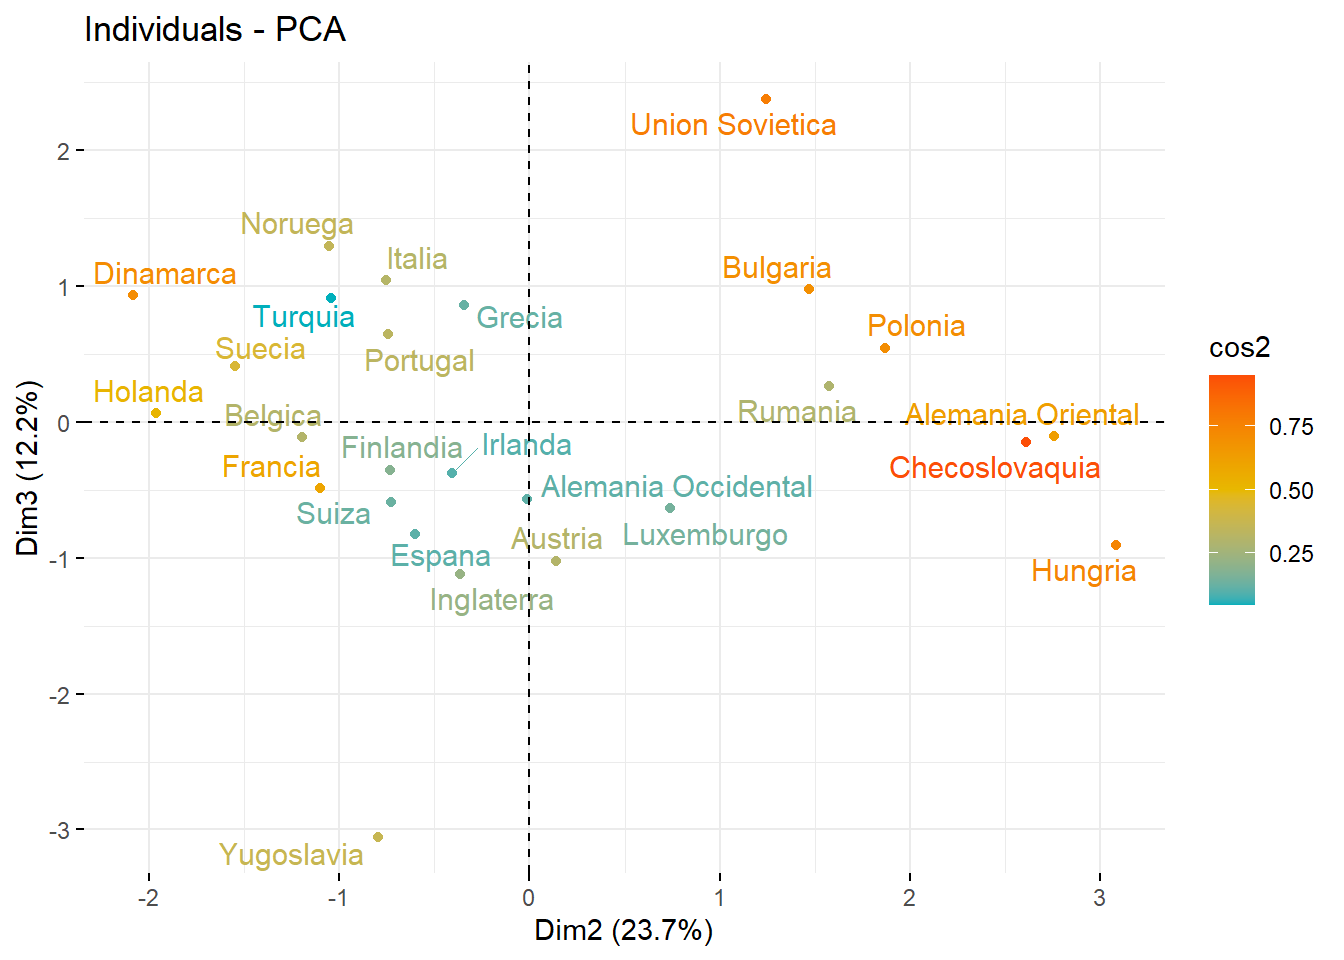
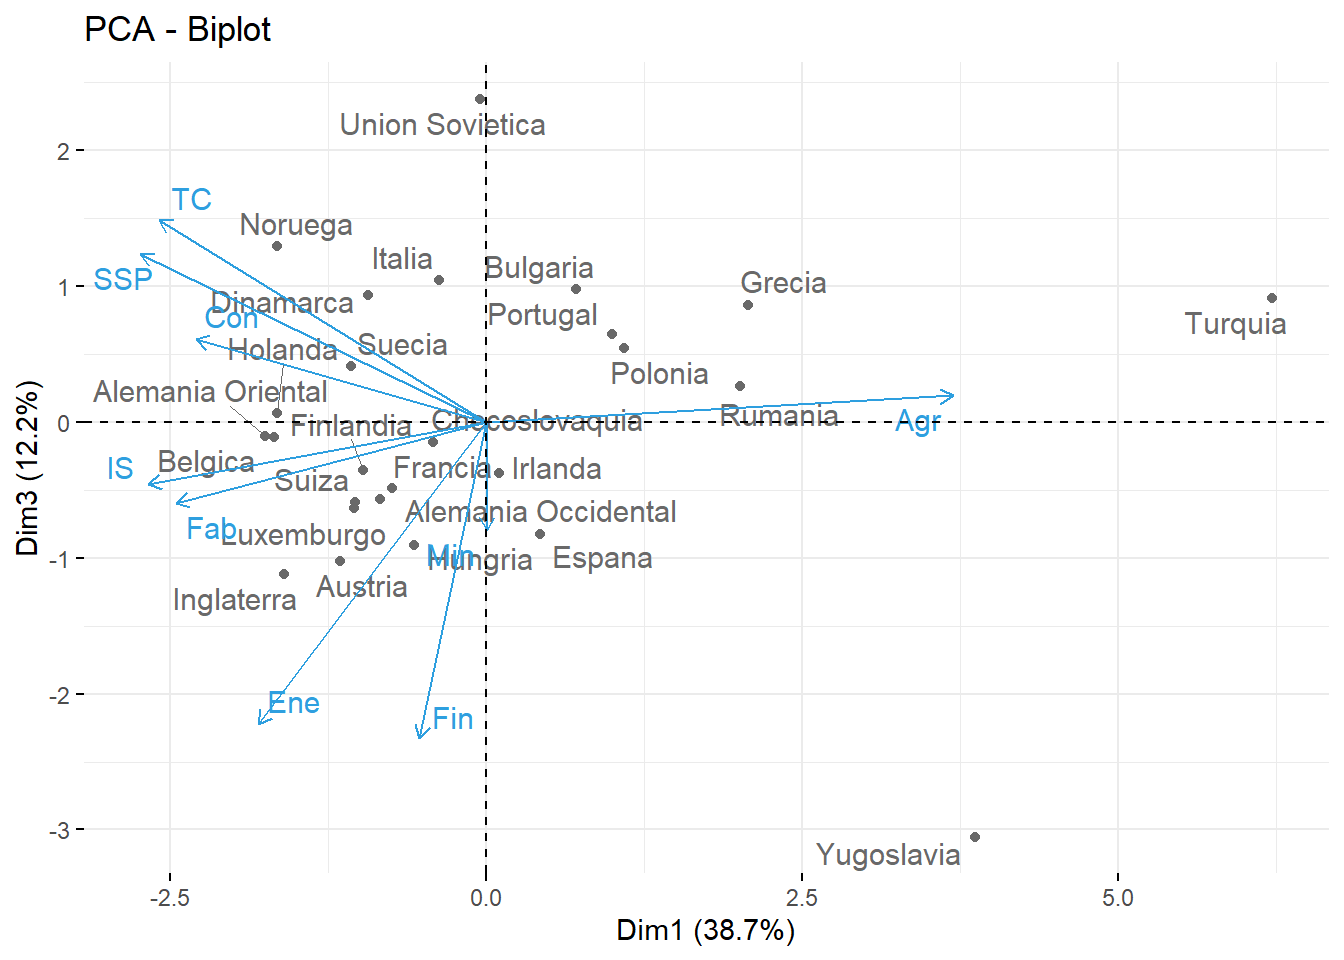
pingüino mayor

diff --git a/entrega5.html b/entrega5.html
@@ -156,6 +156,30 @@ Dim.9 0.0000456251     5.069456e-04                   100.00000</code></pre>
 </div>
 <p>Observamos que las tres primeras componentes principales explican aproximadamente el 74.6% de la variación total. Pese a que, si incorporásemos una componente más podríamos alcanzar un nivel del 85%, vemos conveniente reducir el número de variable a 3 a fin de obtener quizás representaciones que incluyan menos información pero quizás más significativa. Por ello trabajaremos con esas tres componentes para el análisis que sigue a continuación.</p>
 <p>Procedemos ahora a realizar los cruces de las distintas componentes principales.</p>
+<div class="cell">
+<div class="cell-output cell-output-stdout">
+<pre><code>             PC1         PC2         PC3         PC4        PC5        PC6
+Agr  0.523790989  0.05359389  0.04867439 -0.02879285  0.2127026  0.1533066
+Min  0.001323458  0.61780714 -0.20110021 -0.06408495 -0.1637431 -0.1005897
+Fab -0.347495131  0.35505360 -0.15046308  0.34608821 -0.3849576 -0.2881523
+Ene -0.255716182  0.26109606 -0.56108325 -0.39330897  0.2951715  0.3572641
+Con -0.325179319  0.05128845  0.15332114  0.66832395  0.4715934  0.1303542
+IS  -0.378919663 -0.35017206 -0.11509551  0.05015651 -0.2835681  0.6148287
+Fin -0.074373583 -0.45369785 -0.58736130  0.05156652  0.2795682 -0.5255581
+SSP -0.387408806 -0.22152120  0.31190350 -0.41223019 -0.2203514 -0.2629097
+TC  -0.366822713  0.20259185  0.37510601 -0.31437188  0.5129356 -0.1239760
+            PC7          PC8        PC9
+Agr  0.02132116  0.007922069 0.80641788
+Min -0.72571894  0.088362816 0.04856307
+Fab  0.47936298  0.125818308 0.36595728
+Ene  0.25564699 -0.341228167 0.01938500
+Con -0.22069499 -0.355733906 0.08257219
+IS  -0.22943536  0.387536806 0.23829861
+Fin -0.18745525  0.174329338 0.14517064
+SSP -0.19130212 -0.506154178 0.35094226
+TC   0.06819331  0.544562381 0.07205520</code></pre>
+</div>
+</div>
 <section id="cruce-d1-vs-d2" class="level3">
 <h3 class="anchored" data-anchor-id="cruce-d1-vs-d2">Cruce D1 vs D2:</h3>
 <p>Tenemos dos tipos de gráficas que podemos hacer:</p>
@@ -165,17 +189,12 @@ Dim.9 0.0000456251     5.069456e-04                   100.00000</code></pre>
 <p>En este gráfico se agrupan las variables que tengan correlación positiva. Si acudimos a la matriz de correlación veremos que, por ejemplo, agricultura mantiene correlación negativa con todas las demás variables (y por ello está en la mitad derecha de la circunferencia).</p>
 <div class="cell">
 <div class="cell-output-display">
-<p><img src="entrega5_files/figure-html/unnamed-chunk-7-1.png" class="img-fluid" width="672"></p>
+<p><img src="entrega5_files/figure-html/unnamed-chunk-8-1.png" class="img-fluid" width="672"></p>
 </div>
 </div>
 <ol start="2" type="1">
 <li></li>
 </ol>
-<div class="cell">
-<div class="cell-output-display">
-<p><img src="entrega5_files/figure-html/unnamed-chunk-8-1.png" class="img-fluid" width="672"></p>
-</div>
-</div>
 <div class="cell">
 <div class="cell-output-display">
 <p><img src="entrega5_files/figure-html/unnamed-chunk-9-1.png" class="img-fluid" width="672"></p>
@@ -209,6 +228,11 @@ Dim.9 0.0000456251     5.069456e-04                   100.00000</code></pre>
 <div class="cell">
 <div class="cell-output-display">
 <p><img src="entrega5_files/figure-html/unnamed-chunk-15-1.png" class="img-fluid" width="672"></p>
+</div>
+</div>
+<div class="cell">
+<div class="cell-output-display">
+<p><img src="entrega5_files/figure-html/unnamed-chunk-16-1.png" class="img-fluid" width="672"></p>
 </div>
 </div>
 </section>
